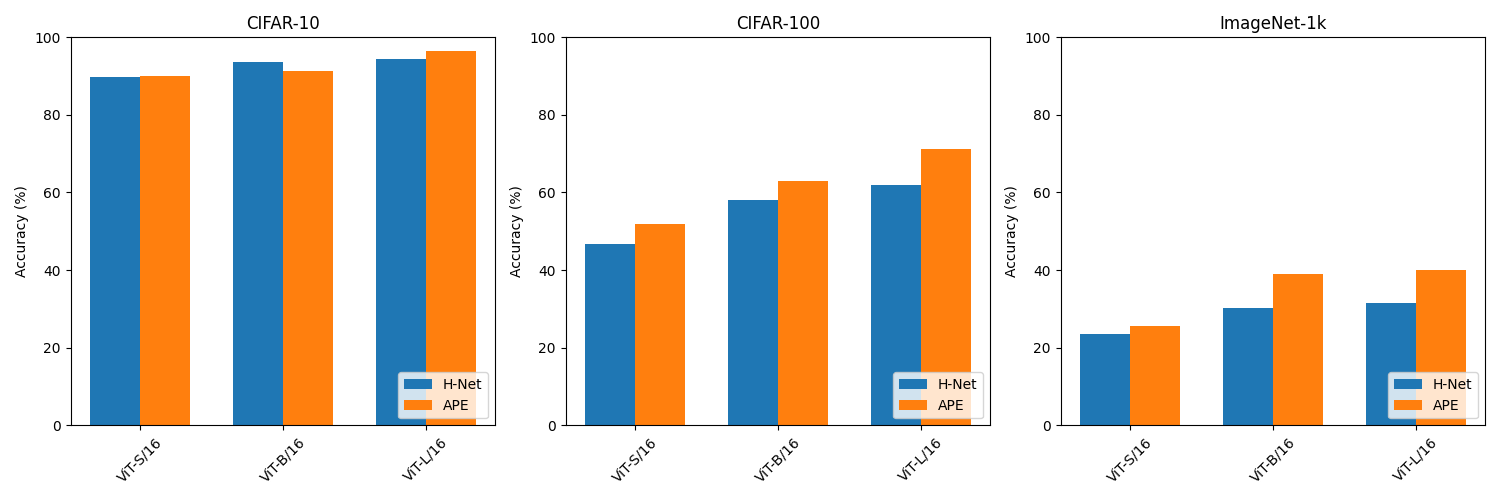
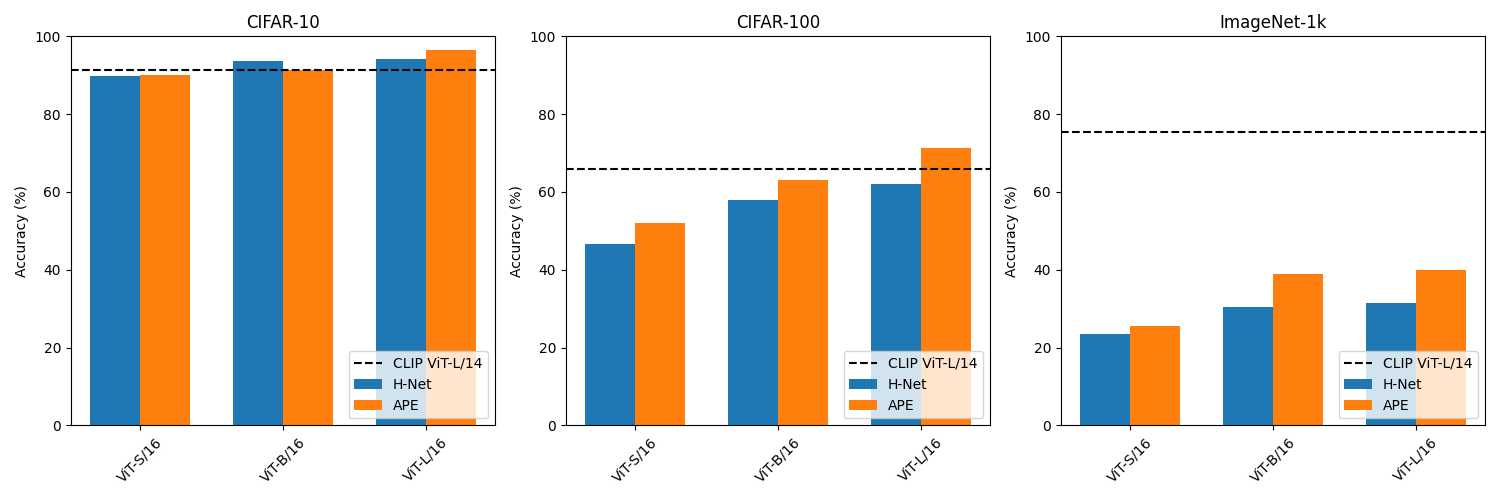
add clip to bars

diff --git a/hyperalignment/plots/image_clf_plots.py b/hyperalignment/plots/image_clf_plots.py
@@ -17,9 +17,10 @@ fig, (ax1, ax2, ax3) = plt.subplots(1, 3, figsize=(15, 5))
 width = 0.35
 x = np.arange(len(models))
 
-def create_bar_plot(ax, ape, hnet, title):
+def create_bar_plot(ax, ape, hnet, clip, title):
     ax.bar(x - width/2, hnet, width, label='H-Net')
     ax.bar(x + width/2, ape, width, label='APE')
+    ax.axhline(clip, linestyle="--", c="black", label="CLIP ViT-L/14")
     ax.set_ylabel('Accuracy (%)')
     ax.set_title(title)
     ax.set_xticks(x)
@@ -27,9 +28,9 @@ def create_bar_plot(ax, ape, hnet, title):
     ax.set_ylim([0, 100])
     ax.legend(loc="lower right")
 
-create_bar_plot(ax1, ape_cifar10, hnet_cifar10, 'CIFAR-10')
-create_bar_plot(ax2, ape_cifar100, hnet_cifar100, 'CIFAR-100')
-create_bar_plot(ax3, ape_imagenet, hnet_imagenet, 'ImageNet-1k')
+create_bar_plot(ax1, ape_cifar10, hnet_cifar10, 91.40, 'CIFAR-10')
+create_bar_plot(ax2, ape_cifar100, hnet_cifar100, 65.95, 'CIFAR-100')
+create_bar_plot(ax3, ape_imagenet, hnet_imagenet, 75.51, 'ImageNet-1k')
 
 plt.tight_layout()
 plt.savefig("small_scale_vits_img_clf.png")
